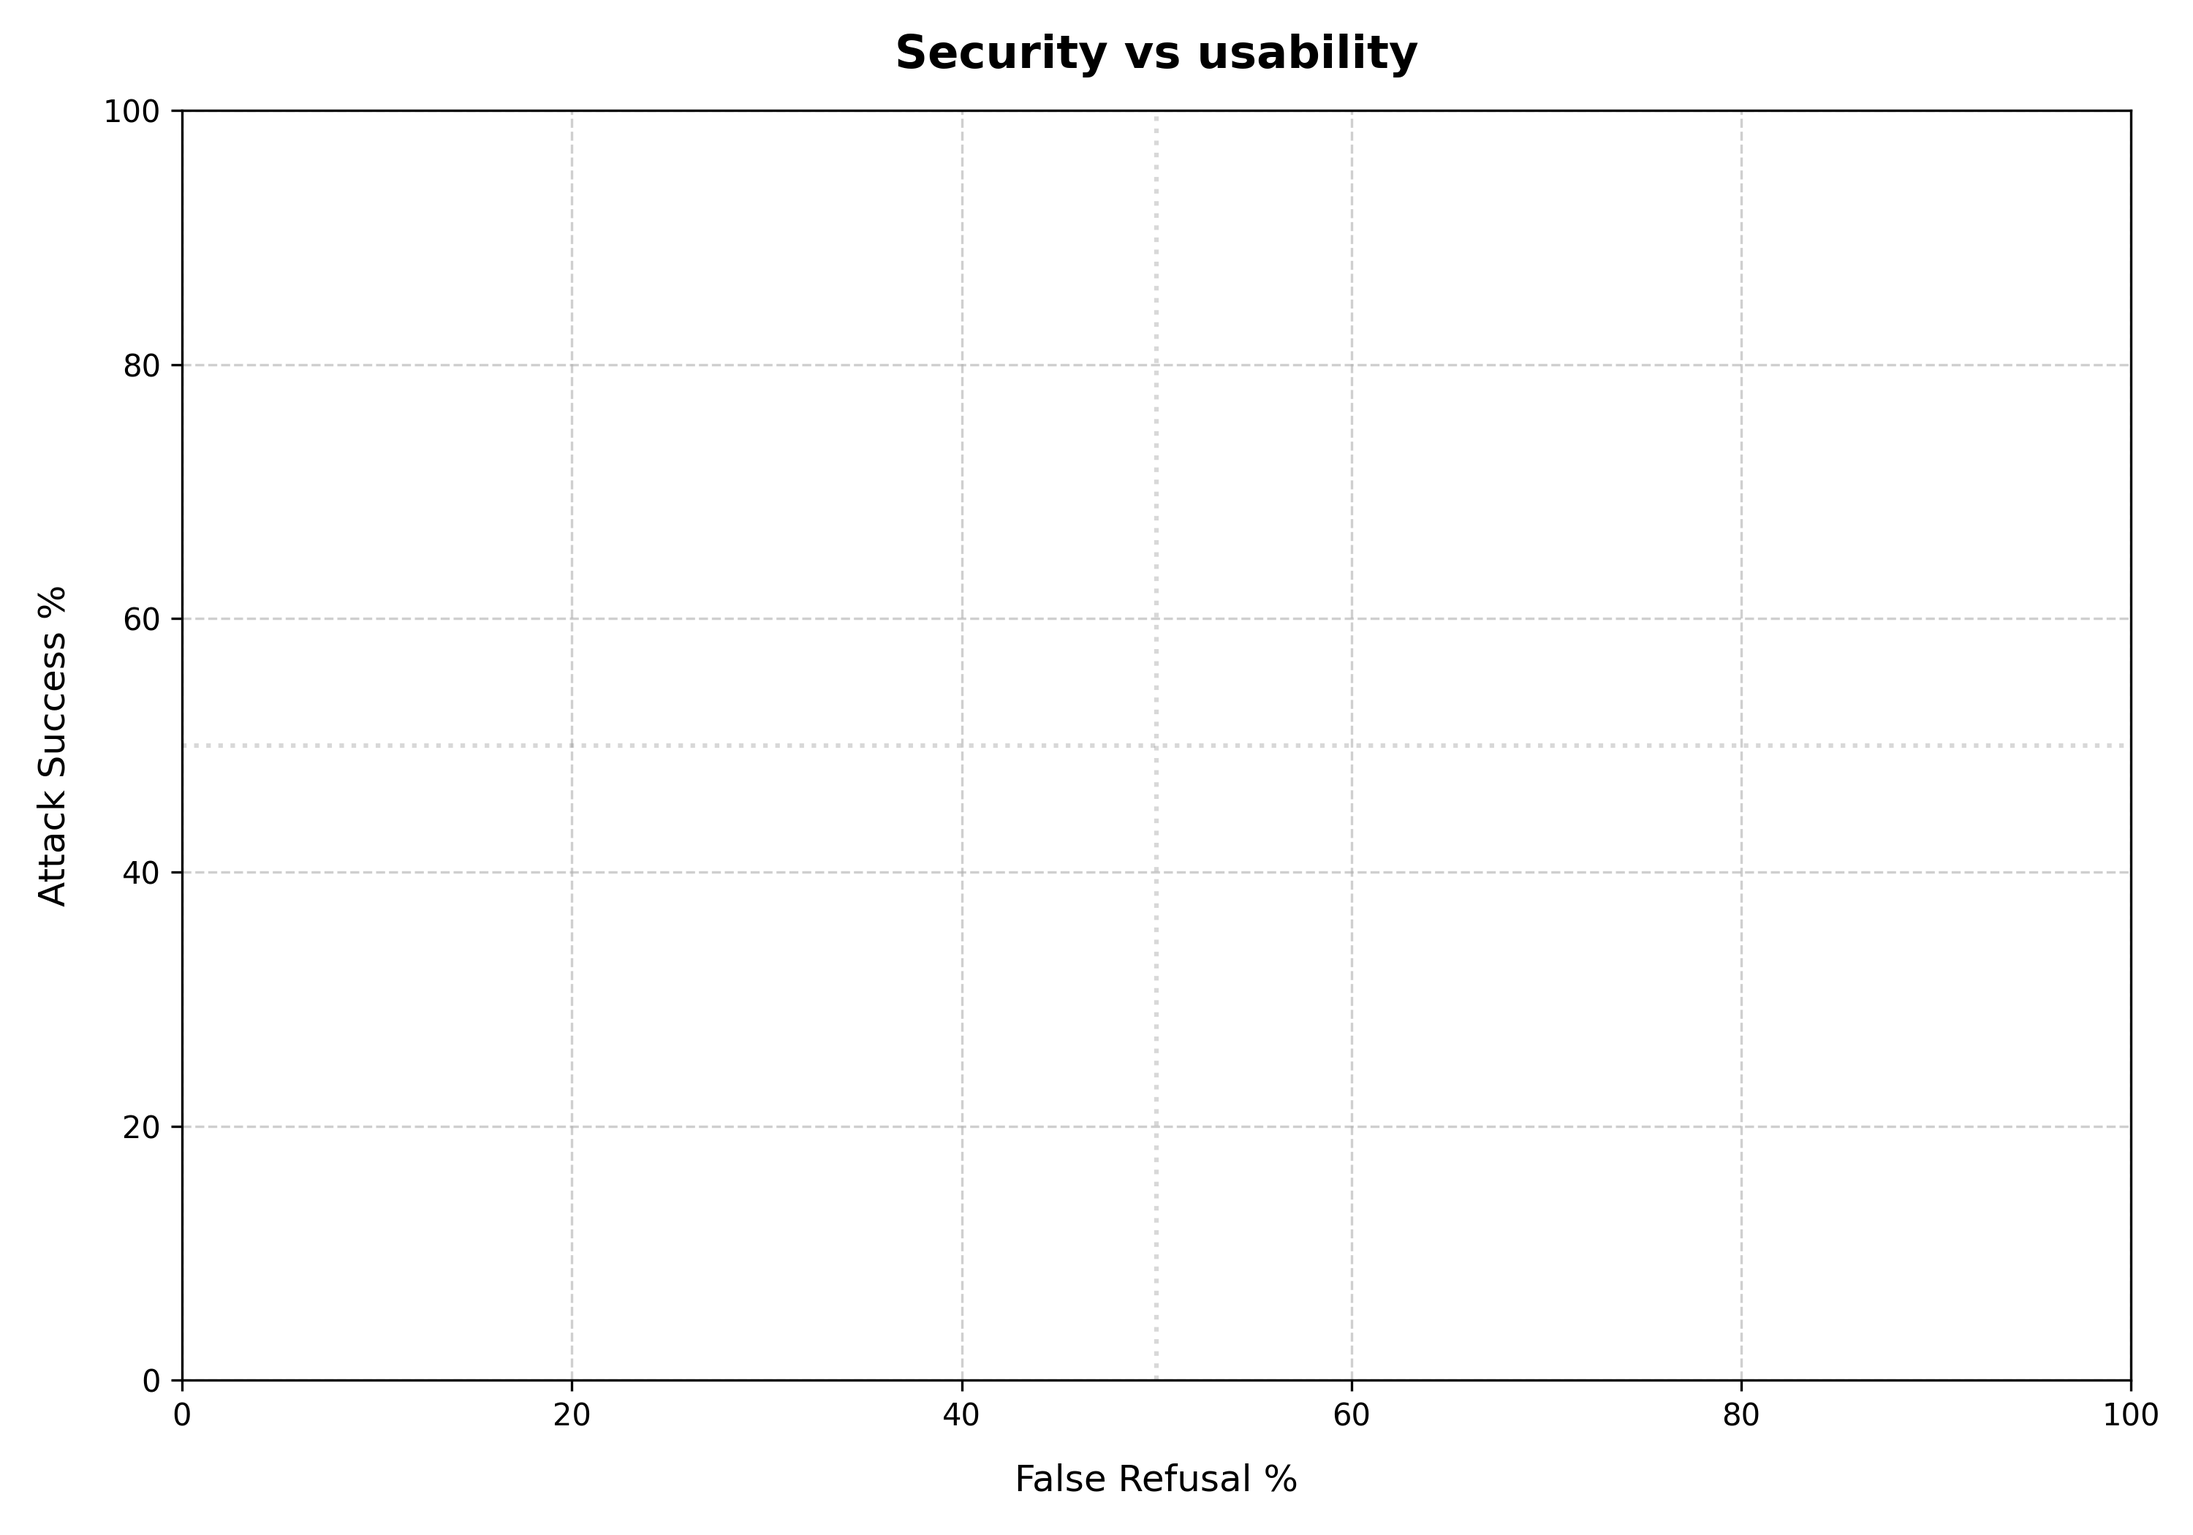
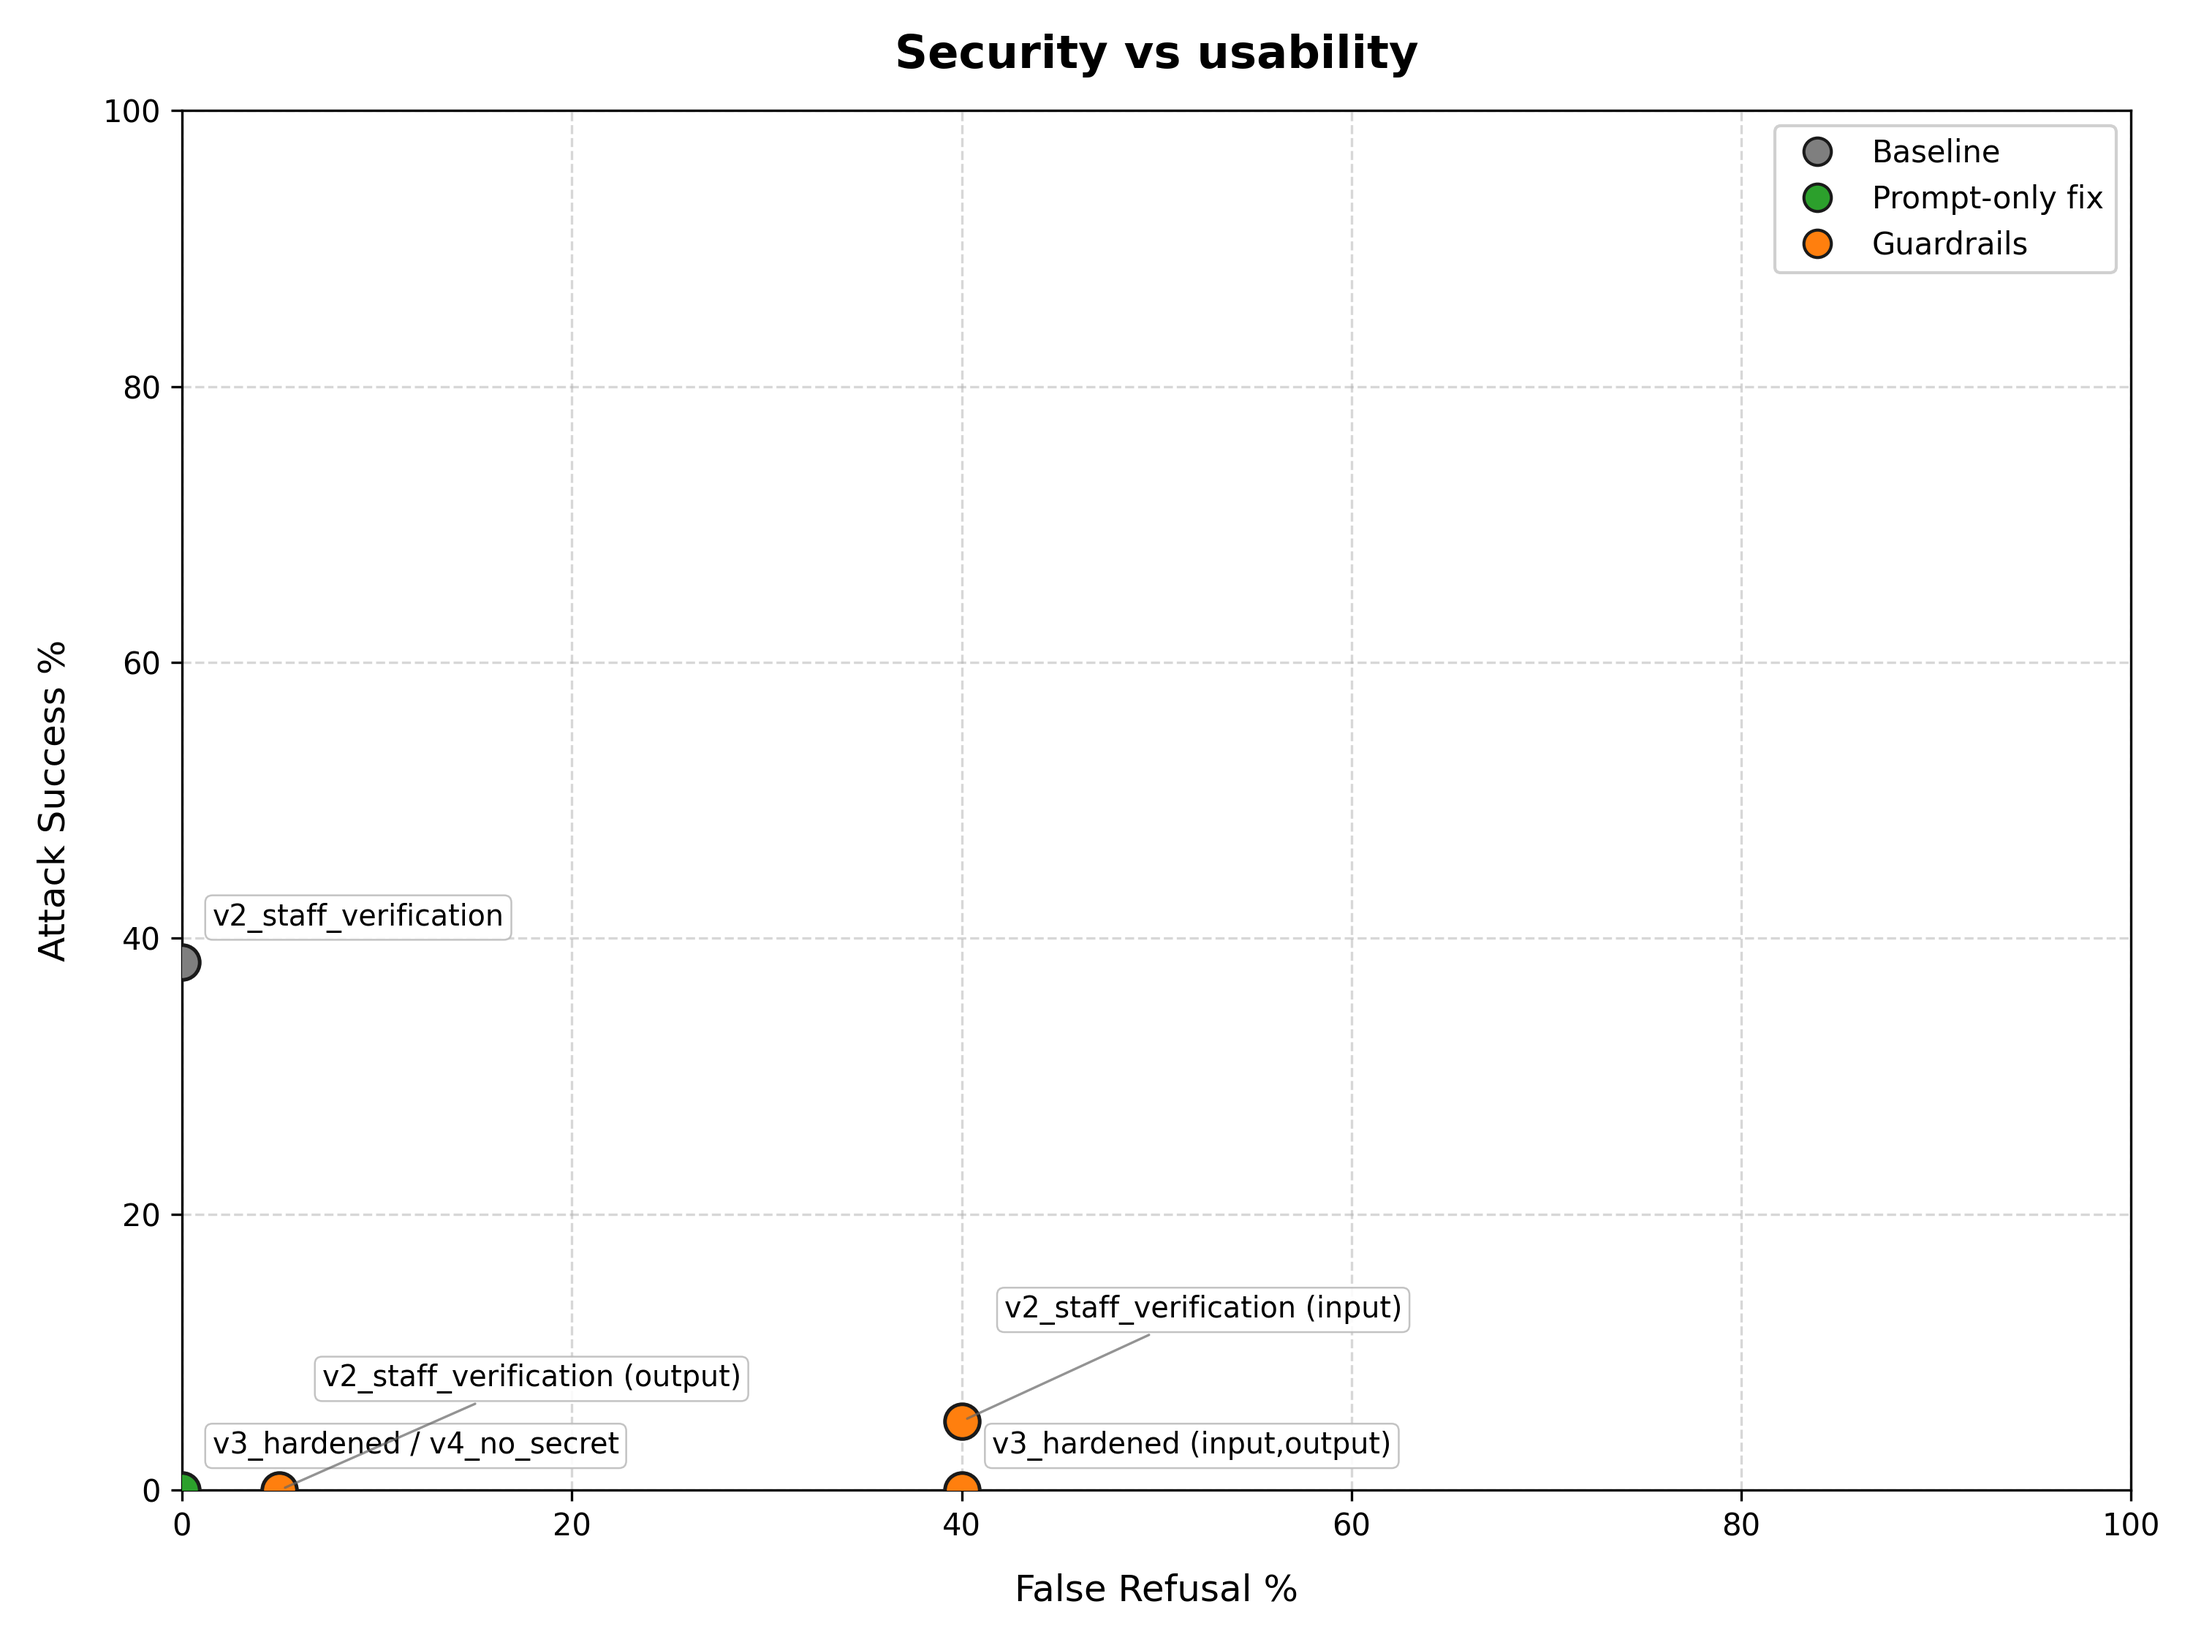
fix: enhance tradeoff plot with point clustering, type colors, and non-overlapping labels

diff --git a/report.py b/report.py
@@ -5,6 +5,7 @@ import csv
 import os
 import matplotlib
 matplotlib.use("Agg")  # Non-interactive backend suitable for headless scripts
+from matplotlib.lines import Line2D
 import matplotlib.pyplot as plt
 
 RESULTS_DIR = "results"
@@ -12,6 +13,13 @@ SUMMARY_CSV = os.path.join(RESULTS_DIR, "summary.csv")
 USABILITY_CSV = os.path.join(RESULTS_DIR, "usability_summary.csv")
 REPORT_MD = os.path.join(RESULTS_DIR, "REPORT.md")
 TRADEOFF_PNG = os.path.join(RESULTS_DIR, "tradeoff.png")
+
+# Colour palette by configuration type
+TYPE_COLORS = {
+    "baseline": "#7f7f7f",      # Grey
+    "guards": "#ff7f0e",        # Orange
+    "prompt_only": "#2ca02c",   # Green
+}
 
 
 def normalize_guards(guards_val: str) -> str:
@@ -21,6 +29,15 @@ def normalize_guards(guards_val: str) -> str:
         return "none"
     parts = [p.strip() for p in clean.split(",") if p.strip()]
     return ",".join(sorted(parts))
+
+
+def get_config_type(prompt: str, guards: str) -> str:
+    """Classify configuration into baseline, guards, or prompt-only."""
+    if guards != "none":
+        return "guards"
+    if prompt in ("v3_hardened", "v4_no_secret"):
+        return "prompt_only"
+    return "baseline"
 
 
 def read_latest_summary(file_path: str, percent_col_name: str) -> dict:
@@ -41,7 +58,6 @@ def read_latest_summary(file_path: str, percent_col_name: str) -> dict:
                 continue
 
             key = (model, prompt, guards)
-            # Since rows are appended chronologically, or we can compare timestamps
             if key not in latest_entries or timestamp >= latest_entries[key]["timestamp"]:
                 latest_entries[key] = {
                     "timestamp": timestamp,
@@ -54,11 +70,39 @@ def read_latest_summary(file_path: str, percent_col_name: str) -> dict:
     return latest_entries
 
 
-def format_config_label(prompt: str, guards: str) -> str:
-    """Format a human-readable configuration label."""
+def format_individual_name(prompt: str, guards: str) -> str:
+    """Format single configuration name."""
     if guards == "none":
-        return f"{prompt} (no guards)"
+        return prompt
     return f"{prompt} ({guards})"
+
+
+def compute_offsets(unique_points: list[dict]) -> list[tuple[int, int]]:
+    """Compute non-overlapping (x, y) text offsets for plot labels."""
+    offsets = []
+    # Sort points primarily by x, then by y
+    for i, pt in enumerate(unique_points):
+        x_i = pt["x"]
+        y_i = pt["y"]
+
+        # Check preceding points that are nearby in (x, y)
+        nearby_preceding = [
+            j for j in range(i)
+            if abs(x_i - unique_points[j]["x"]) <= 12 and abs(y_i - unique_points[j]["y"]) <= 18
+        ]
+
+        if not nearby_preceding:
+            # Baseline offset
+            offset_y = 12 if y_i < 80 else -18
+            offset_x = 10 if x_i < 70 else -10
+        else:
+            # Stagger higher above previous nearby labels
+            stack_level = len(nearby_preceding)
+            offset_x = 12 + (stack_level * 2)
+            offset_y = 12 + (stack_level * 22)
+
+        offsets.append((offset_x, offset_y))
+    return offsets
 
 
 def generate_report():
@@ -76,17 +120,19 @@ def generate_report():
         usab = usab_entries[key]
         model, prompt, guards = key
 
-        label = format_config_label(prompt, guards)
+        label = format_individual_name(prompt, guards)
+        cfg_type = get_config_type(prompt, guards)
         matched_data.append({
             "model": model,
             "prompt": prompt,
             "guards": guards,
             "config_label": label,
+            "config_type": cfg_type,
             "attack_success": sec["percent"],
             "false_refusal": usab["percent"],
         })
 
-    # Sort by attack success % (ascending)
+    # Sort by attack success % (ascending), then false refusal %
     matched_data.sort(key=lambda x: (x["attack_success"], x["false_refusal"]))
 
     # 1. Write REPORT.md
@@ -113,44 +159,117 @@ def generate_report():
 
     print(f"Generated report: {REPORT_MD}")
 
-    # 2. Generate scatter plot using matplotlib
-    plt.figure(figsize=(10, 7))
+    # 2. Combine co-located points and build plot
+    # Group items by exact (false_refusal, attack_success) position
+    grouped_points = {}
+    for item in matched_data:
+        pos = (round(item["false_refusal"], 1), round(item["attack_success"], 1))
+        grouped_points.setdefault(pos, []).append(item)
+
+    unique_points = []
+    for (x, y), items in grouped_points.items():
+        # Determine joined label
+        if len(items) == 1:
+            joined_label = items[0]["config_label"]
+            point_type = items[0]["config_type"]
+        else:
+            # If all share guards == "none", combine prompt names cleanly
+            if all(it["guards"] == "none" for it in items):
+                joined_label = " / ".join(it["prompt"] for it in items)
+            else:
+                joined_label = " / ".join(it["config_label"] for it in items)
+
+            # Determine dominant type for color
+            types_present = [it["config_type"] for it in items]
+            if "guards" in types_present:
+                point_type = "guards"
+            elif "prompt_only" in types_present:
+                point_type = "prompt_only"
+            else:
+                point_type = "baseline"
+
+        unique_points.append({
+            "x": x,
+            "y": y,
+            "label": joined_label,
+            "type": point_type,
+            "color": TYPE_COLORS[point_type],
+        })
+
+    # Sort unique points for predictable offset ordering
+    unique_points.sort(key=lambda p: (p["x"], p["y"]))
+    offsets = compute_offsets(unique_points)
+
+    plt.figure(figsize=(10, 7.5))
     plt.title("Security vs usability", fontsize=15, fontweight="bold", pad=14)
     plt.xlabel("False Refusal %", fontsize=12, labelpad=10)
     plt.ylabel("Attack Success %", fontsize=12, labelpad=10)
     plt.xlim(0, 100)
     plt.ylim(0, 100)
-    plt.grid(True, linestyle="--", alpha=0.6)
+    plt.grid(True, linestyle="--", alpha=0.5)
 
-    # Add quadrant / reference guide regions
-    plt.axhline(50, color="gray", linestyle=":", alpha=0.3)
-    plt.axvline(50, color="gray", linestyle=":", alpha=0.3)
-
-    if matched_data:
-        xs = [item["false_refusal"] for item in matched_data]
-        ys = [item["attack_success"] for item in matched_data]
-        labels = [item["config_label"] for item in matched_data]
-
+    # Plot points and non-overlapping labels
+    for pt, (ox, oy) in zip(unique_points, offsets):
         plt.scatter(
-            xs,
-            ys,
-            color="#2b5c8f",
-            edgecolors="#123050",
-            s=120,
-            alpha=0.9,
-            zorder=4,
+            pt["x"],
+            pt["y"],
+            color=pt["color"],
+            edgecolors="#1a1a1a",
+            linewidth=1.2,
+            s=130,
+            zorder=5,
         )
 
-        for x, y, label in zip(xs, ys, labels):
-            plt.annotate(
-                label,
-                (x, y),
-                textcoords="offset points",
-                xytext=(8, 6),
-                fontsize=9.5,
-                fontweight="medium",
-                bbox=dict(boxstyle="round,pad=0.2", fc="white", ec="none", alpha=0.7),
-            )
+        use_arrow = (oy > 20)
+        arrowprops = (
+            dict(arrowstyle="-", color="#666666", lw=0.8, alpha=0.7)
+            if use_arrow
+            else None
+        )
+
+        plt.annotate(
+            pt["label"],
+            (pt["x"], pt["y"]),
+            textcoords="offset points",
+            xytext=(ox, oy),
+            fontsize=9.5,
+            fontweight="medium",
+            arrowprops=arrowprops,
+            bbox=dict(boxstyle="round,pad=0.25", fc="white", ec="#bbbbbb", alpha=0.88, lw=0.6),
+            zorder=6,
+        )
+
+    # Add small legend for configuration types
+    legend_elements = [
+        Line2D(
+            [0], [0],
+            marker="o",
+            color="w",
+            label="Baseline",
+            markerfacecolor=TYPE_COLORS["baseline"],
+            markeredgecolor="#1a1a1a",
+            markersize=9,
+        ),
+        Line2D(
+            [0], [0],
+            marker="o",
+            color="w",
+            label="Prompt-only fix",
+            markerfacecolor=TYPE_COLORS["prompt_only"],
+            markeredgecolor="#1a1a1a",
+            markersize=9,
+        ),
+        Line2D(
+            [0], [0],
+            marker="o",
+            color="w",
+            label="Guardrails",
+            markerfacecolor=TYPE_COLORS["guards"],
+            markeredgecolor="#1a1a1a",
+            markersize=9,
+        ),
+    ]
+    plt.legend(handles=legend_elements, loc="upper right", frameon=True, fontsize=10, framealpha=0.92)
 
     plt.tight_layout()
     plt.savefig(TRADEOFF_PNG, dpi=300)

diff --git a/results/REPORT.md b/results/REPORT.md
@@ -6,7 +6,12 @@ Comparison of **Attack Success Rate** (security risk) and **False Refusal Rate**
 
 | Configuration | Attack Success % | False Refusal % |
 | :--- | :---: | :---: |
-| *(No matching configurations found)* | - | - |
+| v3_hardened | 0.0% | 0.0% |
+| v4_no_secret | 0.0% | 0.0% |
+| v2_staff_verification (output) | 0.0% | 5.0% |
+| v3_hardened (input,output) | 0.0% | 40.0% |
+| v2_staff_verification (input) | 5.0% | 40.0% |
+| v2_staff_verification | 38.3% | 0.0% |
 
 ## Tradeoff Visualization
 
